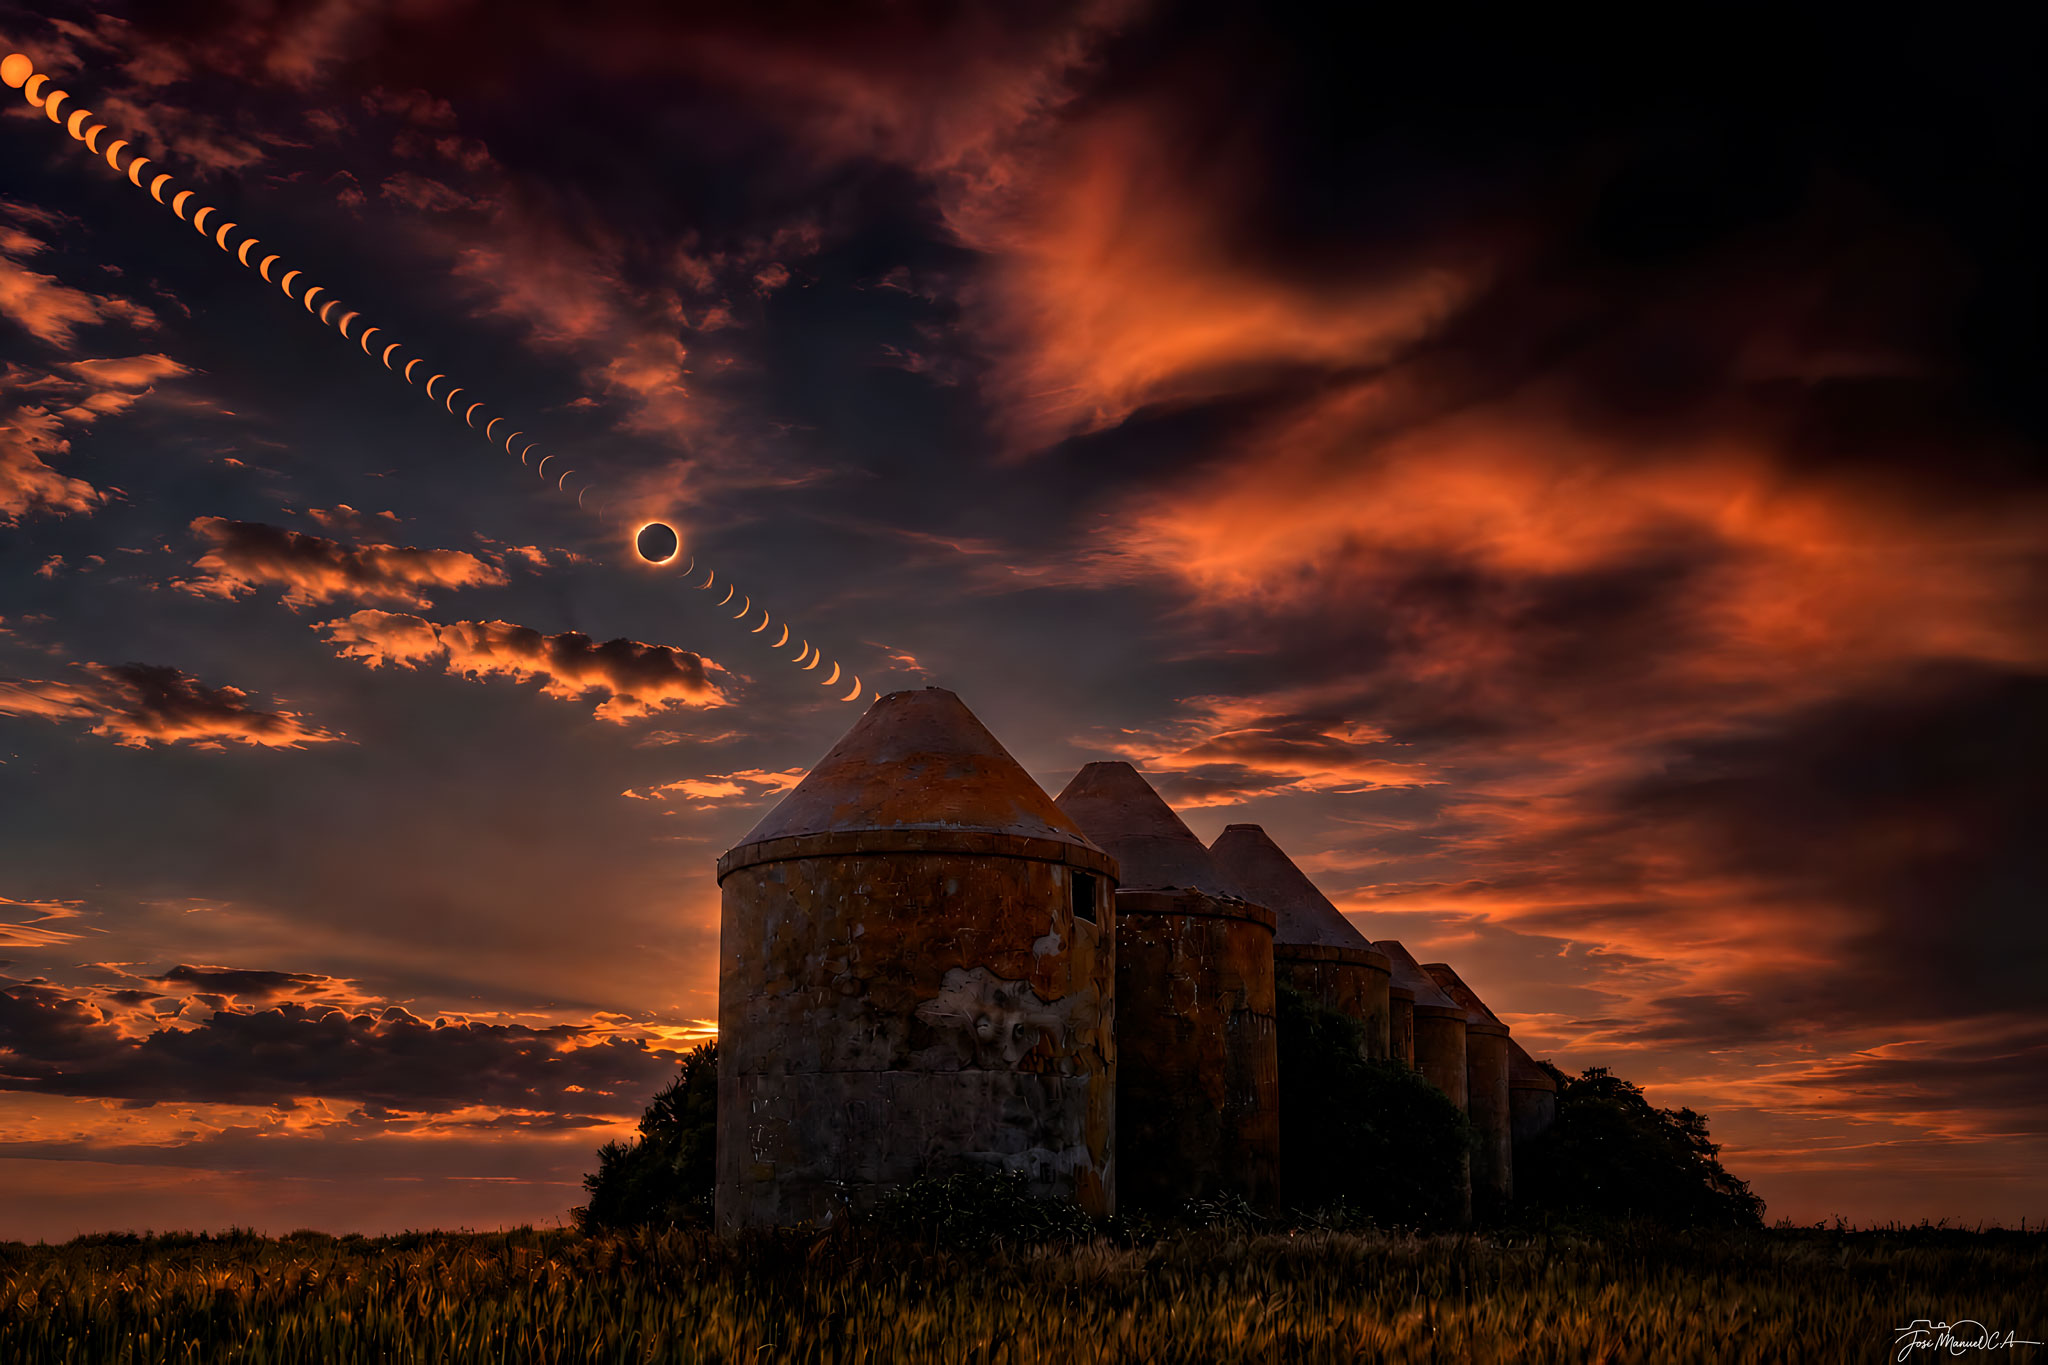
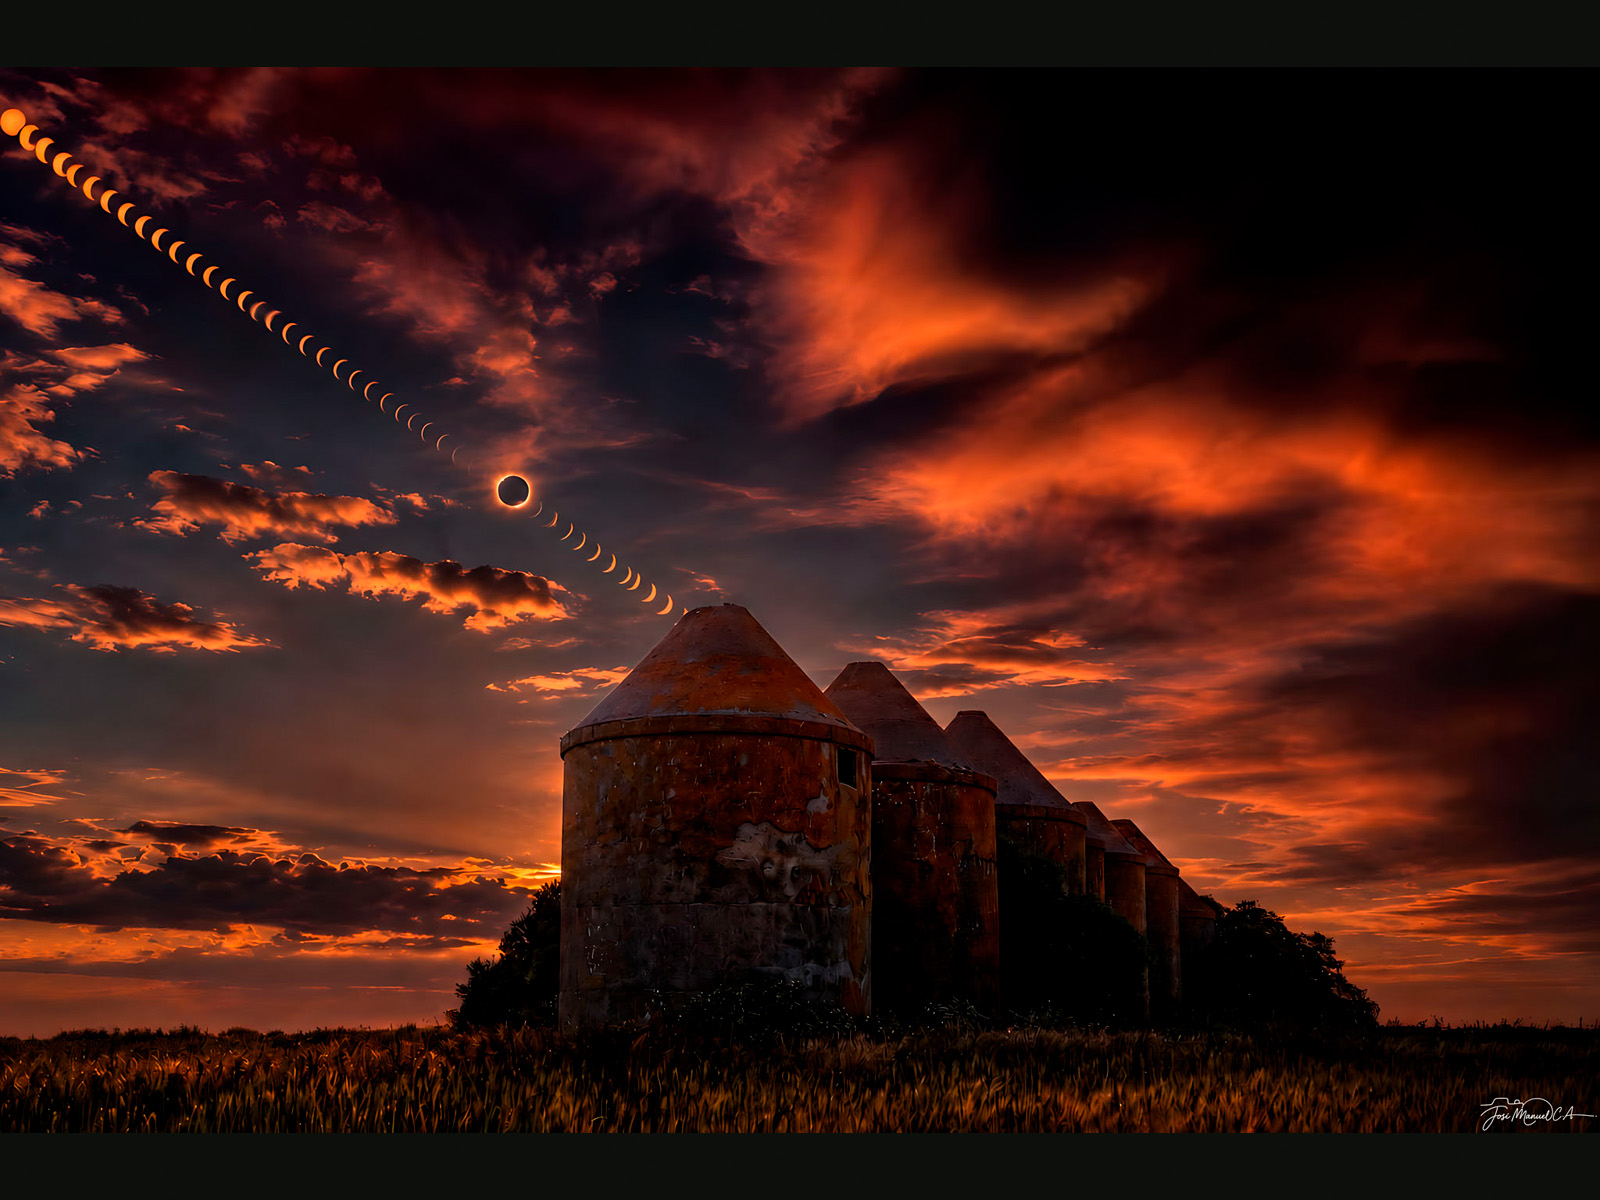
Prepara astrofotografia para web

diff --git a/src/styles/global.css b/src/styles/global.css
@@ -1,4 +1,4 @@
-:root {
+:root {
   color-scheme: dark;
 
   --background: #0b0c0b;
@@ -255,7 +255,7 @@ nav a[aria-current="page"] {
 
 
 /* =========================================================
-   CUADRÍCULAS DE FOTOGRAFÍAS
+   CUADRÃCULAS DE FOTOGRAFÃAS
    ========================================================= */
 
 .photo-grid {
@@ -281,7 +281,7 @@ nav a[aria-current="page"] {
 
 
 /* =========================================================
-   TARJETA DE FOTOGRAFÍA
+   TARJETA DE FOTOGRAFÃA
    ========================================================= */
 
 .photo-card {
@@ -292,19 +292,18 @@ nav a[aria-current="page"] {
 
 
 /*
- * ESTA ES LA CORRECCIÓN IMPORTANTE.
+ * ESTA ES LA CORRECCIÃ“N IMPORTANTE.
  *
- * Todas las fotografías de las tarjetas tienen una proporción
- * fija. Así una fotografía vertical como Macro no puede hacer
- * que su tarjeta sea más alta que las demás.
+ * Todas las fotografÃas de las tarjetas tienen una proporciÃ³n
+ * fija. AsÃ una fotografÃa vertical como Macro no puede hacer
+ * que su tarjeta sea mÃ¡s alta que las demÃ¡s.
  */
 
 .photo-card img {
-  aspect-ratio: 4 / 5;
   background: var(--surface);
   display: block;
   height: auto;
-  object-fit: cover;
+  object-fit: contain;
   width: 100%;
 }
 
@@ -325,7 +324,7 @@ nav a[aria-current="page"] {
 
 
 /*
- * Refuerzo específico para Obra reciente.
+ * Refuerzo especÃfico para Obra reciente.
  * Mantiene las cuatro tarjetas perfectamente uniformes.
  */
 
@@ -333,7 +332,7 @@ nav a[aria-current="page"] {
 
 
 /* =========================================================
-   INFORMACIÓN DE LA TARJETA
+   INFORMACIÃ“N DE LA TARJETA
    ========================================================= */
 
 .photo-card__meta {
@@ -353,7 +352,7 @@ nav a[aria-current="page"] {
 
 
 /* =========================================================
-   CABECERAS DE PÁGINA
+   CABECERAS DE PÃGINA
    ========================================================= */
 
 .page-heading {
@@ -371,7 +370,7 @@ nav a[aria-current="page"] {
 
 
 /* =========================================================
-   GALERÍA
+   GALERÃA
    ========================================================= */
 
 .gallery-section {
@@ -396,7 +395,7 @@ nav a[aria-current="page"] {
 
 
 /* =========================================================
-   TARJETAS DE GALERÍA
+   TARJETAS DE GALERÃA
    ========================================================= */
 
 .gallery-card {
@@ -470,7 +469,7 @@ nav a[aria-current="page"] {
 
 
 /* =========================================================
-   DETALLE DE FOTOGRAFÍA
+   DETALLE DE FOTOGRAFÃA
    ========================================================= */
 
 .photo-detail {
@@ -524,7 +523,7 @@ nav a[aria-current="page"] {
 
 
 /* =========================================================
-   SOBRE MÍ / CONTACTO / 404
+   SOBRE MÃ / CONTACTO / 404
    ========================================================= */
 
 .about,
@@ -560,7 +559,7 @@ nav a[aria-current="page"] {
 
 
 /* =========================================================
-   PIE DE PÁGINA
+   PIE DE PÃGINA
    ========================================================= */
 
 .site-footer {
@@ -597,7 +596,7 @@ nav a[aria-current="page"] {
 
 
 /* =========================================================
-   MÓVIL
+   MÃ“VIL
    ========================================================= */
 
 @media (max-width: 680px) {
@@ -661,19 +660,21 @@ nav a[aria-current="page"] {
   }
 
   /*
-   * En móvil las tarjetas siguen manteniendo
-   * una proporción controlada.
+   * En mÃ³vil las tarjetas siguen manteniendo
+   * una proporciÃ³n controlada.
    */
 
   .photo-card img {
-    aspect-ratio: 4 / 5;
-    height: auto;
-    object-fit: cover;
-  }
+  background: var(--surface);
+  display: block;
+  height: auto;
+  object-fit: contain;
+  width: 100%;
+}
 
   /*
-   * Las tarjetas de galería pasan a formato
-   * ligeramente más horizontal en móvil.
+   * Las tarjetas de galerÃa pasan a formato
+   * ligeramente mÃ¡s horizontal en mÃ³vil.
    */
 
   .gallery-card {
@@ -691,7 +692,7 @@ nav a[aria-current="page"] {
 
   /*
    * IMPORTANTE:
-   * la fotografía individual NO se recorta.
+   * la fotografÃa individual NO se recorta.
    */
 
   .photo-detail__image img {
@@ -727,3 +728,4 @@ nav a[aria-current="page"] {
   }
 
 }
+
